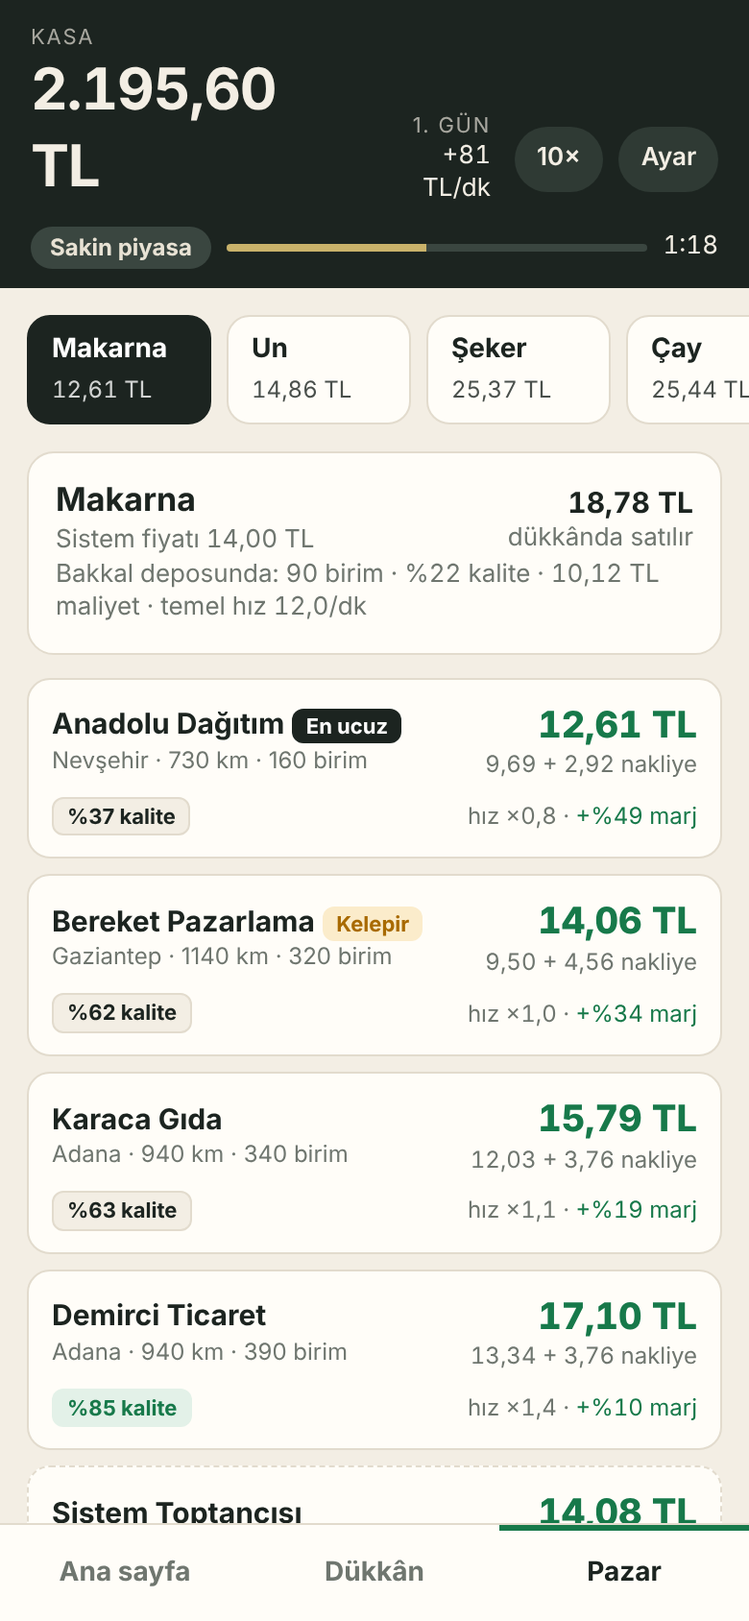
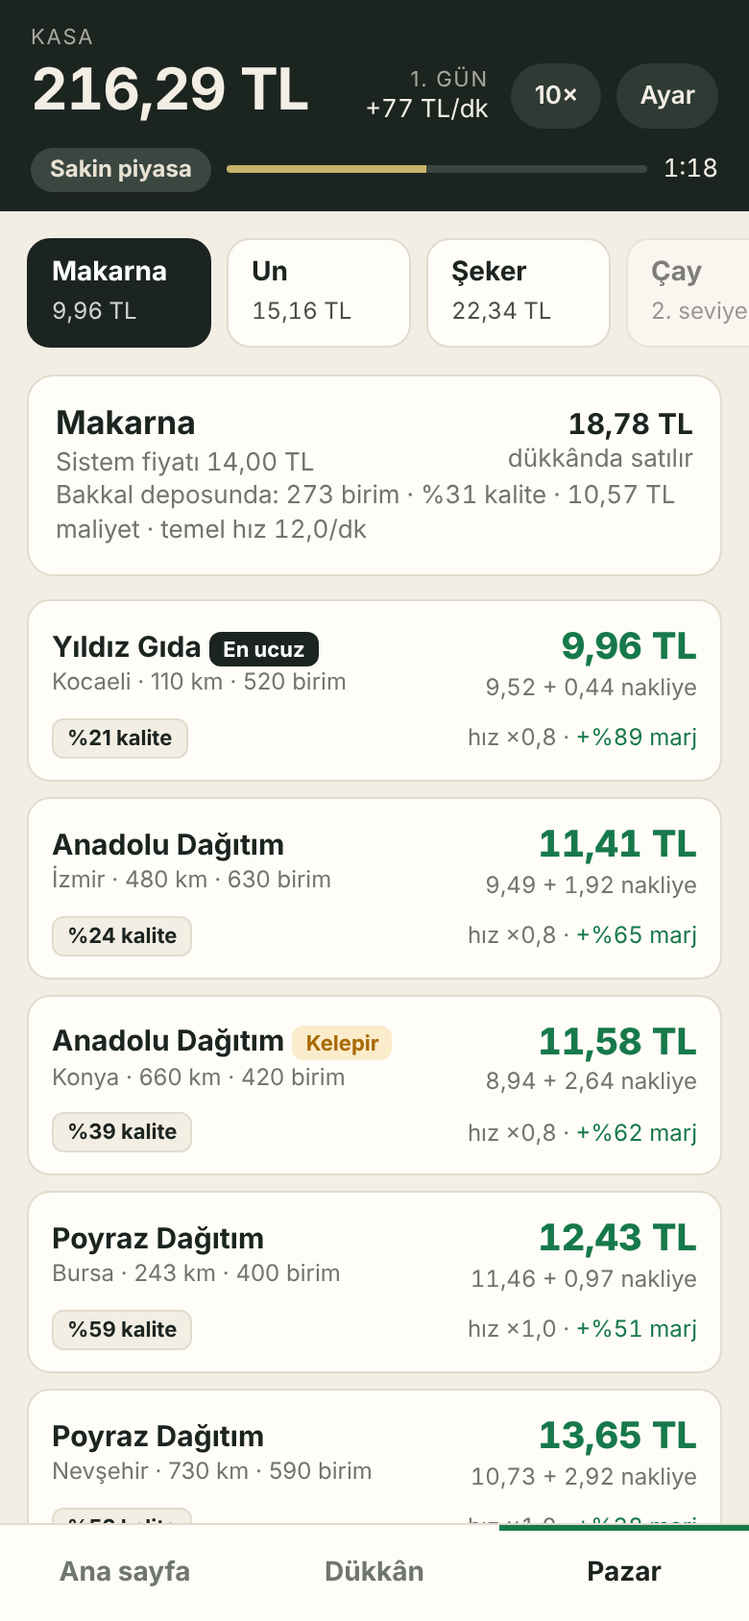
Banka, seviyeyle açılan ürünler, hızlanan tempo
Claude-Session: https://claude.ai/code/session_016ga1EdVkJkJaVmwRgvhwTG

diff --git a/prototypes/dukkan-pazar/index.html b/prototypes/dukkan-pazar/index.html
@@ -99,20 +99,20 @@ svg.sp{display:block;width:100%;height:38px}
 "use strict";
 /* ---- Ayar değerleri: dengenin tamamı burada ---- */
 const CONFIG={
-  startCash:3000, daySec:240, marketSec:150, rateScale:1, rentScale:1, shipPerKm:0.004, churnSec:12, xpBase:10000, xpPow:2,
+  startCash:3000, daySec:240, marketSec:150, rateScale:1, rentScale:1, shipPerKm:0.004, churnSec:12, xpBase:2500, xpPow:2.2, loanRatio:.6, interestDay:.04,
   states:{sakin:{ad:"Sakin piyasa",m:1},canli:{ad:"Canlı piyasa",m:1.12},kotu:{ad:"Kötü piyasa",m:0.88}},
   sizes:[{ad:"Küçük",shelves:2,depot:1200,rent:120,costK:0},{ad:"Orta",shelves:4,depot:3000,rent:300,costK:.8},{ad:"Büyük",shelves:6,depot:6000,rent:700,costK:3}],
   types:[
     {id:"bakkal",ad:"Bakkal",level:1,cost:3500,tier:1,products:[["makarna","Makarna",14],["un","Un",22],["seker","Şeker",36],["cay","Çay",42],["pirinc","Pirinç",48],["yag","Ayçiçek yağı",78]]},
-    {id:"manav",ad:"Manav",level:2,cost:6000,tier:1.1,products:[["sogan","Soğan",12],["patates","Patates",16],["domates","Domates",28],["elma","Elma",34],["limon","Limon",40],["muz","Muz",62]]},
-    {id:"kuruyemis",ad:"Kuruyemişçi",level:5,cost:25000,tier:2,products:[["leblebi","Leblebi",60],["cekirdek","Ay çekirdeği",70],["findik","Fındık",95],["kayisi","Kuru kayısı",180],["ceviz","Ceviz",240],["fistik","Antep fıstığı",320]]},
-    {id:"tekel",ad:"Tekel bayii",level:8,cost:60000,tier:3,products:[["soda","Soda",12],["cakmak","Çakmak",18],["bira","Bira",55],["sigara","Sigara",85],["sarap","Şarap",220],["raki","Rakı",650]]}],
+    {id:"manav",ad:"Manav",level:3,cost:6000,tier:1.1,products:[["sogan","Soğan",12],["patates","Patates",16],["domates","Domates",28],["elma","Elma",34],["limon","Limon",40],["muz","Muz",62]]},
+    {id:"kuruyemis",ad:"Kuruyemişçi",level:6,cost:18000,tier:2,products:[["leblebi","Leblebi",60],["cekirdek","Ay çekirdeği",70],["findik","Fındık",95],["kayisi","Kuru kayısı",180],["ceviz","Ceviz",240],["fistik","Antep fıstığı",320]]},
+    {id:"tekel",ad:"Tekel bayii",level:9,cost:40000,tier:3,products:[["soda","Soda",12],["cakmak","Çakmak",18],["bira","Bira",55],["sigara","Sigara",85],["sarap","Şarap",220],["raki","Rakı",650]]}],
   cities:[["İstanbul",20],["Kocaeli",110],["Bursa",243],["Eskişehir",325],["Ankara",453],["İzmir",480],["Konya",660],["Nevşehir",730],["Samsun",735],["Mersin",932],["Adana",940],["Trabzon",1070],["Gaziantep",1140]],
   sellers:["Yıldız Gıda","Akçay Toptan","Demirci Ticaret","Bereket Pazarlama","Öztürk Kardeşler","Anadolu Dağıtım","Karaca Gıda","Marmara Toptan","Güneş Ticaret","Sarıkaya Gıda","Poyraz Dağıtım","Toros Pazarlama"]
 };
 const clamp=(x,a,b)=>Math.max(a,Math.min(b,x));
 const P={},T={},PIDS=[];
-CONFIG.types.forEach(t=>{T[t.id]=t;t.products.forEach(a=>{P[a[0]]={id:a[0],ad:a[1],sys:a[2],type:t.id,rate:+(45/Math.sqrt(a[2])).toFixed(1),markup:clamp(.5-.06*Math.log(a[2]),.18,.42)};PIDS.push(a[0])})});
+CONFIG.types.forEach(t=>{T[t.id]=t;t.products.forEach((a,ix)=>{P[a[0]]={lvl:t.level+Math.max(0,ix-2),id:a[0],ad:a[1],sys:a[2],type:t.id,rate:+(45/Math.sqrt(a[2])).toFixed(1),markup:clamp(.5-.06*Math.log(a[2]),.18,.42)};PIDS.push(a[0])})});
 let seed=Date.now()%2147483647;
 function rnd(){seed=seed*48271%2147483647;return seed/2147483647}
 const rr=(a,b)=>a+rnd()*(b-a), ri=(a,b)=>Math.floor(rr(a,b+1)), pick=a=>a[Math.floor(rnd()*a.length)];
@@ -120,10 +120,10 @@ const tl=(x,d)=>x.toLocaleString("tr-TR",{minimumFractionDigits:d==null?2:d,maxi
 let S, lid=1;
 
 /* ---- Motor ---- */
-function mkShop(type){const sh={type,size:0,shelves:[],stock:{},acc:{}};T[type].products.forEach(a=>{sh.stock[a[0]]={q:0,qual:0,cost:0};sh.acc[a[0]]=0});fitShelves(sh);return sh}
+function mkShop(type){const sh={type,val:T[type].cost,size:0,shelves:[],stock:{},acc:{}};T[type].products.forEach(a=>{sh.stock[a[0]]={q:0,qual:0,cost:0};sh.acc[a[0]]=0});fitShelves(sh);return sh}
 function fitShelves(sh){while(sh.shelves.length<CONFIG.sizes[sh.size].shelves)sh.shelves.push(null)}
 function newGame(){
-  S={cash:CONFIG.startCash,t:0,day:1,xp:0,level:1,shops:[mkShop("bakkal")],cur:0,sel:{},feed:[],listings:{},
+  S={cash:CONFIG.startCash,debt:0,t:0,day:1,xp:0,level:1,shops:[mkShop("bakkal")],cur:0,sel:{},feed:[],listings:{},
      market:{state:"sakin",nextAt:CONFIG.marketSec,mult:{},hist:{}},churnAt:CONFIG.churnSec,d:{rev:0,buy:0,sold:0},dead:false,speed:1,tab:"home",first:true};
   CONFIG.types.forEach(t=>S.sel[t.id]=t.products[0][0]);
   PIDS.forEach(id=>{S.market.mult[id]=1;S.market.hist[id]=[P[id].sys];S.listings[id]=[];const n=ri(5,6);for(let i=0;i<n;i++)S.listings[id].push(genListing(id))});
@@ -134,7 +134,7 @@ function genListing(id){
   const q=ri(20,85), c=pick(CONFIG.cities);
   let d=.34-(q-20)/65*.26+rr(-.04,.04), kelepir=rnd()<.1;
   if(kelepir)d+=rr(.08,.14);
-  return{id:lid++,pid:id,seller:pick(CONFIG.sellers),city:c[0],km:c[1],q:q,qty:ri(6,40)*10,price:+(sysPrice(id)*(1-d)).toFixed(2),kelepir};
+  return{id:lid++,pid:id,seller:pick(CONFIG.sellers),city:c[0],km:c[1],q:q,qty:ri(10,80)*10,price:+(sysPrice(id)*(1-d)).toFixed(2),kelepir};
 }
 const ship=l=>+(l.km*CONFIG.shipPerKm).toFixed(2);
 const net=l=>+(l.price+ship(l)).toFixed(2);
@@ -151,7 +151,7 @@ const profitPerMin=()=>S.shops.reduce((s,sh)=>s+shopProfit(sh),0);
 const shopRent=sh=>Math.round(CONFIG.sizes[sh.size].rent*T[sh.type].tier*CONFIG.rentScale);
 const upCost=sh=>sh.size<2?Math.round(T[sh.type].cost*CONFIG.sizes[sh.size+1].costK):null;
 const xpNeed=n=>CONFIG.xpBase*Math.pow(n-1,CONFIG.xpPow);
-function maxBuy(l){const sh=shopOf(l.pid);if(!sh)return 0;return Math.max(0,Math.min(l.qty,Math.floor(S.cash/net(l)),depotCap(sh)-depotUsed(sh)))}
+function maxBuy(l){const sh=shopOf(l.pid);if(!sh||S.level<P[l.pid].lvl)return 0;return Math.max(0,Math.min(l.qty,Math.floor(S.cash/net(l)),depotCap(sh)-depotUsed(sh)))}
 const roundP=x=>Math.round(x*20)/20;
 function buy(l,qty){
   const sh=shopOf(l.pid);qty=Math.min(qty,maxBuy(l));if(!sh||qty<=0)return 0;
@@ -162,8 +162,12 @@ function buy(l,qty){
   if(!sh.shelves.some(s=>s&&s.pid===l.pid)){let i=sh.shelves.findIndex(s=>!s);if(i<0)i=sh.shelves.findIndex(s=>sh.stock[s.pid].q<=0);if(i>=0)sh.shelves[i]={pid:l.pid,price:roundP(refPrice(l.pid))}}
   S.first=false;return qty;
 }
-function upgrade(sh){const c=upCost(sh);if(c==null||S.cash<c)return false;S.cash-=c;sh.size++;fitShelves(sh);return true}
+function upgrade(sh){const c=upCost(sh);if(c==null||S.cash<c)return false;S.cash-=c;sh.val+=c;sh.size++;fitShelves(sh);return true}
 function openShop(type){const t=T[type];if(S.level<t.level||S.cash<t.cost||S.shops.some(s=>s.type===type))return false;S.cash-=t.cost;S.shops.push(mkShop(type));return true}
+const assets=()=>S.shops.reduce((s,sh)=>s+sh.val+Object.values(sh.stock).reduce((a,x)=>a+x.q*x.cost,0),0);
+const loanLimit=()=>Math.floor(assets()*CONFIG.loanRatio/100)*100;
+function borrow(x){x=Math.min(x,loanLimit()-S.debt);if(x<=0)return 0;S.debt+=x;S.cash+=x;return x}
+function repay(x){x=Math.min(x,S.debt,Math.max(0,S.cash));if(x<=0)return 0;S.debt-=x;S.cash-=x;return x}
 function marketUpdate(){
   const keys=Object.keys(CONFIG.states).filter(k=>k!==S.market.state||rnd()<.25);
   S.market.state=pick(keys);const m=CONFIG.states[S.market.state].m;
@@ -173,12 +177,12 @@ function marketUpdate(){
 }
 function churn(){
   PIDS.forEach(id=>{const L=S.listings[id];
-    if(L.length&&rnd()<.5){const l=L.slice().sort((a,b)=>net(a)-net(b))[0];l.qty-=ri(2,12)*10;if(l.qty<=0)S.listings[id]=L.filter(x=>x!==l)}
+    if(L.length&&rnd()<.5){const l=L.slice().sort((a,b)=>net(a)-net(b))[0];l.qty-=ri(4,24)*10;if(l.qty<=0)S.listings[id]=L.filter(x=>x!==l)}
     if(S.listings[id].length<7&&rnd()<.45)S.listings[id].push(genListing(id))});
   ev("listings");
 }
 function endDay(){
-  const rent=S.shops.reduce((s,sh)=>s+shopRent(sh),0);S.cash-=rent;
+  const rent=S.shops.reduce((s,sh)=>s+shopRent(sh),0)+S.debt*CONFIG.interestDay;S.cash-=rent;
   ev("day",{day:S.day,sold:S.d.sold,rent});S.day++;S.d={rev:0,buy:0,sold:0};
   if(S.cash<0&&S.shops.every(sh=>depotUsed(sh)===0)){S.dead=true;ev("dead")}
 }
@@ -198,14 +202,14 @@ let onEv=()=>{};function ev(k,d){onEv(k,d)}
 const $=id=>document.getElementById(id);
 let dirty=true,pend={},sheetL=null,sheetQ=0,toastT;
 const cur=()=>S.shops[S.cur];
-function toast(m){const t=$("toast");t.textContent=m;t.classList.add("on");clearTimeout(toastT);toastT=setTimeout(()=>t.classList.remove("on"),2600)}
+function toast(m){const t=$("toast"),up=$("sheetbg").classList.contains("on");t.style.top=up?"104px":"auto";t.style.bottom=up?"auto":"66px";t.textContent=m;t.classList.add("on");clearTimeout(toastT);toastT=setTimeout(()=>t.classList.remove("on"),2600)}
 onEv=(k,d)=>{
   if(k==="sale"){const p=pend[d.pid]||(pend[d.pid]={n:0,r:0,si:d.si});p.n+=d.n;p.r+=d.r}
   else if(k==="market"){const s=S.market.state;toast("Piyasa güncellendi: "+CONFIG.states[s].ad+(s==="canli"?". Fiyatlar yükseldi.":s==="kotu"?". Fiyatlar düştü.":"."));dirty=true}
   else if(k==="listings"){if(S.tab==="market"&&!sheetL)dirty=true}
   else if(k==="empty"){toast(P[d.pid].ad+" bitti. Raf boş.");dirty=true}
-  else if(k==="level"){const u=CONFIG.types.find(t=>t.level===S.level);toast(S.level+". seviye oldun."+(u?" "+u.ad+" açılabilir.":""));dirty=true}
-  else if(k==="day"){S.feed.unshift({t:d.day+". gün kapandı: "+d.sold+" satış, kira",v:-d.rent,si:-1});dirty=true}
+  else if(k==="level"){toast(S.level+". seviye oldun. "+reward(S.level));dirty=true}
+  else if(k==="day"){S.feed.unshift({t:d.day+". gün kapandı: "+d.sold+" satış, kira"+(S.debt>0?" ve faiz":""),v:-d.rent,si:-1});dirty=true}
   else if(k==="dead"){openEnd()}
 };
 function flushFeed(){let ch=false;for(const id in pend){const p=pend[id];S.feed.unshift({t:p.n+" × "+P[id].ad,v:p.r,nw:1,si:p.si});ch=true}pend={};if(S.feed.length>40)S.feed.length=40;
@@ -215,17 +219,20 @@ function qTag(q){return `<span class="tag q ${q>=70?"hi":""}">%${Math.round(q)} 
 function spark(id){const h=S.market.hist[id];if(h.length<2)return"";const mn=Math.min(...h),mx=Math.max(...h),w=300,H=38;
   const pts=h.map((v,i)=>(i/(h.length-1)*w).toFixed(1)+","+(H-4-(mx===mn?.5:(v-mn)/(mx-mn))*(H-8)).toFixed(1)).join(" ");
   return `<svg class="sp" viewBox="0 0 ${w} ${H}" preserveAspectRatio="none"><polyline points="${pts}" fill="none" stroke="#17794a" stroke-width="2" vector-effect="non-scaling-stroke"/></svg>`}
+function reward(n){const a=CONFIG.types.filter(t=>t.level===n).map(t=>t.ad+" açılabilir"),b=PIDS.filter(id=>P[id].lvl===n&&n>T[P[id].type].level).map(id=>T[P[id].type].ad+": "+P[id].ad);return a.concat(b.length?["yeni ürün: "+b.join(", ")]:[]).join(" · ")}
 const shopChips=()=>S.shops.length<2?"":`<div class="prods">`+S.shops.map((sh,i)=>`<button class="${i===S.cur?"on":""}" data-a="shopsel" data-v="${i}"><b>${T[sh.type].ad}</b><span>${CONFIG.sizes[sh.size].ad}</span></button>`).join("")+`</div>`;
 const costBtn=(a,c,extra,dis)=>`<button class="btn" data-a="${a}" ${extra||""} data-cost="${c}" ${S.cash<c||dis?"disabled":""}>${tl(c,0)} TL</button>`;
 function renderHome(){
-  const nx=xpNeed(S.level+1),pv=xpNeed(S.level),nu=CONFIG.types.filter(t=>t.level>S.level).sort((a,b)=>a.level-b.level)[0];
-  let h=`<div class="card lvl"><div class="row"><div><div class="lbl">Seviye</div><b class="big num">${S.level}</b></div><div style="text-align:right"><div class="sub num" id="xpT">Sonraki seviyeye ${tl(Math.max(0,nx-S.xp),0)} TL ciro</div>${nu?`<div class="sub">${nu.level}. seviyede: ${nu.ad}</div>`:""}</div></div><div class="depo"><i id="xpB" data-a0="${pv}" data-a1="${nx}" style="width:${clamp((S.xp-pv)/(nx-pv)*100,0,100)}%"></i></div></div>`;
+  const nx=xpNeed(S.level+1),pv=xpNeed(S.level),nu=reward(S.level+1);
+  let h=`<div class="card lvl"><div class="row"><div><div class="lbl">Seviye</div><b class="big num">${S.level}</b></div><div style="text-align:right"><div class="sub num" id="xpT">Sonraki seviyeye ${tl(Math.max(0,nx-S.xp),0)} TL ciro</div>${nu?`<div class="sub">${S.level+1}. seviyede: ${nu}</div>`:""}</div></div><div class="depo"><i id="xpB" data-a0="${pv}" data-a1="${nx}" style="width:${clamp((S.xp-pv)/(nx-pv)*100,0,100)}%"></i></div></div>`;
   if(S.first)h+=`<div class="card hint"><b>Rafların boş.</b><div class="sub" style="color:inherit;margin:4px 0 12px">Pazardan mal al. Aldığın mal anında depoya girer ve satılmaya başlar.</div><button class="btn full" data-a="tab" data-v="market">Pazara git</button></div>`;
   else{let al="";S.shops.forEach((sh,i)=>{sh.shelves.forEach(sf=>{if(sf&&sh.stock[sf.pid].q<=0)al+=`<div class="al"><span><b>${T[sh.type].ad}:</b> ${P[sf.pid].ad} bitti</span><button class="btn sm g" data-a="goto" data-v="${sf.pid}">Mal al</button></div>`});
       const e=sh.shelves.filter(x=>!x).length;if(e)al+=`<div class="al"><span><b>${T[sh.type].ad}:</b> ${e} raf boş</span><button class="btn sm ghost" data-a="gomarket" data-v="${i}">Pazar</button></div>`});
+    if(S.debt>loanLimit())al+=`<div class="al"><span><b>Banka:</b> borcun kredi limitinin üstünde</span><button class="btn sm ghost" data-a="bank">Banka</button></div>`;
     if(al)h+=`<div class="card"><h2 style="margin-bottom:4px">Bekleyen işler</h2>${al}</div>`}
   h+=`<h3>Dükkânlarım</h3>`;
   S.shops.forEach((sh,i)=>{const u=depotUsed(sh),pr=shopProfit(sh);h+=`<button class="lst" data-a="shopgo" data-v="${i}"><div class="row"><div><b>${T[sh.type].ad}</b><div class="sm">${CONFIG.sizes[sh.size].ad} · İstanbul · ${sh.shelves.filter(x=>x).length}/${sh.shelves.length} raf dolu</div></div><div style="text-align:right"><b class="num ${pr>=0?"up":"dn"}">${pr>=0?"+":"−"}${tl(Math.abs(pr),0)} TL/dk</b><div class="sm num">kira ${tl(shopRent(sh),0)} TL/gün</div></div></div><div class="depo"><i style="width:${u/depotCap(sh)*100}%"></i></div></button>`});
+  const lim=loanLimit();h+=`<h3>Banka</h3><button class="lst" data-a="bank"><div class="row"><div><b>${S.debt>0?"Borç "+tl(S.debt,0)+" TL":"Borcun yok"}</b><div class="sm num">Kredi limiti ${tl(lim,0)} TL · faiz günde %${tl(CONFIG.interestDay*100,1)}</div></div><div style="text-align:right"><b class="num ${S.debt>0?"dn":""}">${S.debt>0?"−"+tl(S.debt*CONFIG.interestDay,0)+" TL/gün":tl(Math.max(0,lim-S.debt),0)+" TL"}</b><div class="sm">${S.debt>0?"faiz":"çekilebilir"}</div></div></div></button>`;
   const rest=CONFIG.types.filter(t=>!S.shops.some(s=>s.type===t.id));
   if(rest.length){h+=`<h3>Yeni dükkân</h3>`;rest.forEach(t=>{const lk=S.level<t.level;h+=`<div class="card ${lk?"lock":""}"><div class="row"><div><h2>${t.ad}</h2><div class="sub">${t.products.slice(0,3).map(a=>a[1]).join(", ")} ve ${t.products.length-3} ürün daha</div></div>${lk?`<span class="tag q">${t.level}. seviyede açılır</span>`:costBtn("openshop",t.cost,`data-v="${t.id}"`)}</div></div>`})}
   return h}
@@ -244,7 +251,7 @@ function renderShop(){
   return h}
 function renderMarket(){
   const sh=cur(),t=T[sh.type],id=S.sel[t.id],p=P[id],h0=S.market.hist[id],prev=h0.length>1?h0[h0.length-2]:h0[0],c0=sysPrice(id),ch=(c0/prev-1)*100,st=sh.stock[id];
-  let h=shopChips()+`<div class="prods">`+t.products.map(a=>{const b=allListings(a[0])[0];return `<button class="${a[0]===id?"on":""}" data-a="sel" data-v="${a[0]}"><b>${a[1]}</b><span class="num">${tl(net(b))} TL</span></button>`}).join("")+`</div>`;
+  let h=shopChips()+`<div class="prods">`+t.products.map(a=>{if(S.level<P[a[0]].lvl)return `<button class="lock" data-a="sel" data-v="${a[0]}"><b>${a[1]}</b><span>${P[a[0]].lvl}. seviye</span></button>`;const b=allListings(a[0])[0];return `<button class="${a[0]===id?"on":""}" data-a="sel" data-v="${a[0]}"><b>${a[1]}</b><span class="num">${tl(net(b))} TL</span></button>`}).join("")+`</div>`;
   h+=`<div class="card"><div class="row"><div><h2>${p.ad}</h2><div class="sub num">Sistem fiyatı ${tl(c0)} TL <span class="${ch>0.5?"up":ch<-0.5?"dn":""}">${Math.abs(ch)<.5?"":(ch>0?"▲":"▼")+" %"+tl(Math.abs(ch),0)}</span></div></div><div style="text-align:right"><b class="num">${tl(refPrice(id))} TL</b><div class="sub">dükkânda satılır</div></div></div>${spark(id)}<div class="sub num">${t.ad} deposunda: ${st.q} birim${st.q?` · %${Math.round(st.qual)} kalite · ${tl(st.cost)} TL maliyet`:""} · temel hız ${tl(p.rate,1)}/dk</div></div>`;
   allListings(id).forEach((l,i)=>{const mrg=(refPrice(id)/net(l)-1)*100;
     h+=`<button class="lst ${l.sys?"sys":""}" data-a="open" data-v="${l.id}"><div class="row"><div><b>${l.seller}</b> ${i===0&&!l.sys?`<span class="tag best">En ucuz</span>`:""} ${l.kelepir?`<span class="tag k">Kelepir</span>`:""}<div class="sm">${l.city} · ${l.km} km · ${l.sys?"sınırsız":l.qty+" birim"}</div></div><div style="text-align:right"><div class="net num">${tl(net(l))} TL</div><div class="sm num">${tl(l.price)} + ${tl(ship(l))} nakliye</div></div></div><div class="row" style="margin-top:8px">${qTag(l.q)}<span class="sm num">hız ×${tl(qualMult(l.q),1)} · <span class="${mrg>0?"up":"dn"}">${mrg>=0?"+":"−"}%${tl(Math.abs(mrg),0)} marj</span></span></div></button>`});
@@ -279,12 +286,20 @@ function buySheet(){
   ${mx>0?`<div class="row"><b>Miktar</b><b class="num" style="font-size:20px" id="sq"></b></div><input type="range" id="qr" min="1" max="${mx}" value="${sheetQ}">
   <div class="qk"><button data-a="qk" data-v=".25">%25</button><button data-a="qk" data-v=".5">%50</button><button data-a="qk" data-v="1">En fazla (${mx})</button></div>
   <table class="tbl num"><tr><td>Toplam</td><td id="stot"></td></tr><tr><td>Depoda yeni ortalama</td><td id="savg"></td></tr><tr><td>Piyasa fiyatından satarsan</td><td id="sprof"></td></tr></table>
-  <button class="btn g full" data-a="buy" id="sbuy"></button>`:`<div class="card hint">${why}</div><button class="btn ghost full" data-a="close">Kapat</button>`}`);
+  <button class="btn g full" data-a="buy" id="sbuy"></button>`:`<div class="card hint">${why}</div><button class="btn ghost full" data-a="close">Kapat</button>`}
+  ${S.cash<net(l)*Math.min(l.qty,depotCap(sh)-depotUsed(sh))&&loanLimit()-S.debt>=100?`<button class="btn ghost full" style="margin-top:8px" data-a="bank">Kasan yetmiyor: bankadan kredi çek (${tl(loanLimit()-S.debt,0)} TL)</button>`:""}`);
   const r=$("qr");if(r){r.oninput=()=>{sheetQ=+r.value;buyCalc()};buyCalc()}}
 function swapSheet(i){const sh=cur(),have=T[sh.type].products.map(a=>P[a[0]]).filter(p=>sh.stock[p.id].q>0&&!sh.shelves.some(s=>s&&s.pid===p.id));
   openSheet(`<h2 style="margin-bottom:10px">${i+1}. rafta ne satılsın?</h2>`+(have.length?have.map(p=>`<button class="lst" data-a="setp" data-i="${i}" data-v="${p.id}"><div class="row"><b>${p.ad}</b><span class="sm num">${sh.stock[p.id].q} birim · %${Math.round(sh.stock[p.id].qual)}</span></div></button>`).join(""):`<div class="sub" style="margin-bottom:12px">Depoda rafta olmayan başka ürün yok. Önce pazardan al.</div>`)+`<button class="btn ghost full" data-a="close">Kapat</button>`)}
+function bankSheet(){sheetL=null;const lim=loanLimit(),av=Math.floor(Math.max(0,lim-S.debt)/100)*100,rp=Math.floor(Math.min(S.debt,Math.max(0,S.cash))),f=x=>tl(x,0)+" TL";
+  openSheet(`<h2>Banka</h2><div class="sub">Kredi limitin, dükkânlarının ve depodaki malın değerinin %${Math.round(CONFIG.loanRatio*100)} kadarıdır. Faiz her gün sonunda kasadan kesilir.</div>
+  <table class="tbl num"><tr><td>Borç</td><td>${f(S.debt)}</td></tr><tr><td>Kredi limiti</td><td>${f(lim)}</td></tr><tr><td>Günlük faiz (%${tl(CONFIG.interestDay*100,1)})</td><td>${f(S.debt*CONFIG.interestDay)}</td></tr></table>
+  ${av>=100?`<div class="row"><b>Kredi çek</b><b class="num" id="bv"></b></div><input type="range" id="bq" min="100" max="${av}" step="100" value="${Math.max(100,Math.floor(av/200)*100)}"><button class="btn g full" data-a="borrow">Kredi çek</button>`:`<div class="card hint">Çekilebilir kredin yok.</div>`}
+  ${rp>=1?`<div class="row" style="margin-top:16px"><b>Borç öde</b><b class="num" id="pv"></b></div><input type="range" id="pq" min="1" max="${rp}" value="${rp}"><button class="btn full" data-a="repay">Borç öde</button>`:""}
+  <button class="btn ghost full" style="margin-top:10px" data-a="close">Kapat</button>`);
+  const b=$("bq"),q=$("pq");if(b){const u=()=>$("bv").textContent=f(+b.value)+" · faizi "+f((S.debt+ +b.value)*CONFIG.interestDay)+"/gün";b.oninput=u;u()}if(q){const u=()=>$("pv").textContent=f(+q.value);q.oninput=u;u()}}
 function settingsSheet(){const r=(k,a,b,s,lab)=>`<div class="row" style="margin-top:10px"><span>${lab}</span><b class="num" id="v-${k}">${CONFIG[k]}</b></div><input type="range" id="r-${k}" data-k="${k}" min="${a}" max="${b}" step="${s}" value="${CONFIG[k]}">`;
-  openSheet(`<h2>Ayar paneli</h2><div class="sub">Denge değerleri. Değişiklik anında uygulanır.</div>${r("marketSec",30,1200,30,"Piyasa güncelleme aralığı (sn)")}${r("rateScale",.5,3,.1,"Satış hızı çarpanı")}${r("rentScale",0,3,.1,"Kira çarpanı")}${r("daySec",60,600,30,"Bir günün süresi (sn)")}${r("shipPerKm",0,.02,.001,"Nakliye (TL/km)")}
+  openSheet(`<h2>Ayar paneli</h2><div class="sub">Denge değerleri. Değişiklik anında uygulanır.</div>${r("marketSec",30,1200,30,"Piyasa güncelleme aralığı (sn)")}${r("rateScale",.5,3,.1,"Satış hızı çarpanı")}${r("rentScale",0,3,.1,"Kira çarpanı")}${r("daySec",60,600,30,"Bir günün süresi (sn)")}${r("shipPerKm",0,.02,.001,"Nakliye (TL/km)")}${r("loanRatio",0,1,.05,"Kredi limiti oranı")}${r("interestDay",0,.1,.005,"Günlük faiz oranı")}
   <div class="row" style="margin-top:14px"><button class="btn ghost" style="flex:1" data-a="reset">Oyunu sıfırla</button><button class="btn" style="flex:1" data-a="close">Tamam</button></div>`);
   $("sheet").querySelectorAll("input").forEach(i=>i.oninput=()=>{CONFIG[i.dataset.k]=+i.value;$("v-"+i.dataset.k).textContent=i.value})}
 function openEnd(){S.speed=1;openSheet(`<h2>İflas ettin.</h2><p>Kasa ekside ve depolarda satacak mal kalmadı (${S.day-1}. gün).</p><button class="btn full" data-a="reset">Yeniden başla</button>`)}
@@ -296,7 +311,10 @@ document.addEventListener("click",e=>{
   else if(a==="shopsel")S.cur=+v;
   else if(a==="shopgo"){S.cur=+v;S.tab="shop";top()}
   else if(a==="gomarket"){S.cur=+v;S.tab="market";top()}
-  else if(a==="sel")S.sel[cur().type]=v;
+  else if(a==="sel"){if(S.level<P[v].lvl){toast(P[v].ad+" "+P[v].lvl+". seviyede açılır.");return}S.sel[cur().type]=v}
+  else if(a==="bank"){bankSheet();return}
+  else if(a==="borrow"){const x=borrow(+$("bq").value);if(x)toast(tl(x,0)+" TL kredi çekildi.");bankSheet();tickUI();return}
+  else if(a==="repay"){const x=repay(+$("pq").value);if(x)toast(tl(x,0)+" TL borç ödendi.");bankSheet();tickUI();return}
   else if(a==="goto"){S.cur=S.shops.indexOf(shopOf(v));S.sel[P[v].type]=v;S.tab="market";top()}
   else if(a==="speed")S.speed=S.speed===1?3:S.speed===3?10:1;
   else if(a==="price"){const sf=cur().shelves[i],ref=refPrice(sf.pid),stp=Math.max(.05,roundP(ref*.02));sf.price=clamp(roundP(sf.price+stp*v),roundP(ref*.7),roundP(ref*1.3))}
@@ -313,13 +331,13 @@ document.addEventListener("click",e=>{
   else if(a==="close"){closeSheet()}
   dirty=true;render()});
 /* ---- Kayıt ve döngü ---- */
-function save(){try{localStorage.setItem("kervan-dp2",JSON.stringify({S,lid}))}catch(e){}}
-function load(){try{const j=JSON.parse(localStorage.getItem("kervan-dp2"));if(j&&j.S&&j.S.shops&&!j.S.dead&&PIDS.every(id=>j.S.listings[id])){S=j.S;lid=j.lid;return true}}catch(e){}return false}
+function save(){try{localStorage.setItem("kervan-dp3",JSON.stringify({S,lid}))}catch(e){}}
+function load(){try{const j=JSON.parse(localStorage.getItem("kervan-dp3"));if(j&&j.S&&j.S.shops&&!j.S.dead&&PIDS.every(id=>j.S.listings[id])){S=j.S;lid=j.lid;return true}}catch(e){}return false}
 if(!load())newGame();
 render();
 let fc=0;
 if(!/[?&]sim/.test(location.search))setInterval(()=>{step(.25*S.speed);if(++fc%4===0)flushFeed();if(fc%40===0)save();if(dirty&&!$("sheetbg").classList.contains("on"))render();else tickUI()},250);
-window.__k={get S(){return S},CONFIG,P,T,step,buy,allListings,net,refPrice,newGame,depotUsed,depotCap,qualMult,upgrade,openShop,upCost,shopOf,seed:v=>{seed=v}};
+window.__k={get S(){return S},CONFIG,P,T,step,buy,allListings,net,refPrice,newGame,depotUsed,depotCap,qualMult,upgrade,openShop,upCost,shopOf,loanLimit,borrow,repay,seed:v=>{seed=v}};
 </script>
 </body>
 </html>

diff --git a/tools/sim.py b/tools/sim.py
@@ -7,20 +7,21 @@ const m=()=>+(S.t/60).toFixed(0);
 for(let i=0;i<60*60*5;i++){k.step(1);if(S.dead){res.dead=m();break}
   if(S.level>lv){lv=S.level;res.lv[lv]=m()}
   if(i%5)continue;
+  if(mode=='kredi'){const av=k.loanLimit()-S.debt;if(av>=500)k.borrow(Math.floor(av/100)*100)}res.debt=Math.round(S.debt);
   const stockVal=S.shops.reduce((s,sh)=>s+Object.values(sh.stock).reduce((a,x)=>a+x.q*x.cost,0),0);
   for(const t of C.types){if(!S.shops.some(s=>s.type==t.id)&&S.level>=t.level&&S.cash>=t.cost+1500){if(k.openShop(t.id))res.ev.push(t.id+"@"+m())}}
   for(const sh of S.shops){const c=k.upCost(sh);if(c!=null&&S.cash>=c+1500&&sh.shelves.every(x=>x)){if(k.upgrade(sh))res.ev.push(sh.type+"^"+sh.size+"@"+m())}}
-  for(const sh of S.shops){const prods=k.T[sh.type].products.map(a=>a[0]);
+  for(const sh of S.shops){const prods=k.T[sh.type].products.map(a=>a[0]).filter(p=>S.level>=k.P[p].lvl);
     const best=pid=>{const L=k.allListings(pid);if(mode=='sys')return L[L.length-1];let b=null,bv=-1;for(const l of L){const v=(k.refPrice(pid)-k.net(l))*k.qualMult(l.q);if(v>bv){bv=v;b=l}}return b};
     const ranked=prods.map(pid=>({pid,l:best(pid)})).map(o=>({...o,v:(k.refPrice(o.pid)-k.net(o.l))*k.P[o.pid].rate})).sort((a,b)=>b.v-a.v);
     const onShelf=sh.shelves.filter(x=>x).map(x=>x.pid);const want=onShelf.concat(ranked.map(o=>o.pid).filter(p=>!onShelf.includes(p))).slice(0,sh.shelves.length);
-    for(const pid of want){const st=sh.stock[pid];if(st.q<30){const l=best(pid);if(k.net(l)<k.refPrice(pid)*0.97){const budget=Math.floor(S.cash/want.length/k.net(l));k.buy(l,Math.min(budget,400))}}
+    for(const pid of want){const st=sh.stock[pid];if(st.q<30){const l=best(pid);if(k.net(l)<k.refPrice(pid)*0.97){const budget=Math.floor(S.cash/want.length/k.net(l));k.buy(l,Math.min(budget,mode=='kredi'?1500:400))}}
       const sf=sh.shelves.find(s=>s&&s.pid==pid);if(sf)sf.price=Math.round(k.refPrice(pid)*20)/20}}
 }
 res.end={t:m(),cash:Math.round(S.cash),day:S.day,level:S.level,shops:S.shops.map(s=>s.type[0]+s.size).join(" ")};return res}'''
 with sync_playwright() as p:
     b=p.chromium.launch(executable_path='/usr/bin/google-chrome',args=['--no-sandbox']);pg=b.new_page();pg.goto(url)
-    for mode in ['ucuz','sys']:
+    for mode in ['ucuz','kredi']:
         for sd in [11,222,3333]:
             print(mode,sd,json.dumps(pg.evaluate(JS,[sd,mode]),ensure_ascii=False))
     b.close()

diff --git a/tools/play.py b/tools/play.py
@@ -13,7 +13,7 @@ with sync_playwright() as p:
     pg.click('#spd'); pg.click('#spd'); pg.wait_for_timeout(6000)
     pg.click('[data-a=price][data-v="1"]'); pg.wait_for_timeout(300); pg.screenshot(path=out+'/4-dukkan.png')
     pg.click('[data-a=settings]'); pg.wait_for_timeout(200); pg.screenshot(path=out+'/5-ayar.png'); pg.click('[data-a=close]')
-    pg.click('#t-market'); pg.wait_for_timeout(200); pg.screenshot(path=out+'/6-pazar2.png'); pg.evaluate('()=>{const S=__k.S;S.cash=40000;S.xp=20000}'); pg.wait_for_timeout(600); pg.click('#t-home'); pg.wait_for_timeout(300); pg.click('[data-a=openshop]'); pg.wait_for_timeout(300); pg.click('.lst >> nth=0'); pg.click('#sbuy'); pg.wait_for_timeout(300); pg.click('[data-a=upgrade]'); pg.wait_for_timeout(300); pg.screenshot(path=out+'/7-manav.png'); pg.click('#t-home'); pg.wait_for_timeout(1500); pg.screenshot(path=out+'/8-ana.png',full_page=False)
+    pg.click('#t-market'); pg.wait_for_timeout(200); pg.screenshot(path=out+'/6-pazar2.png'); pg.evaluate('()=>{const S=__k.S;S.cash=40000;S.xp=20000;S.speed=1}'); pg.wait_for_timeout(600); pg.click('#t-home'); pg.wait_for_timeout(300); pg.click('[data-a=openshop]'); pg.wait_for_timeout(300); pg.click('.lst >> nth=0'); pg.click('#sbuy'); pg.wait_for_timeout(300); pg.click('[data-a=upgrade]'); pg.wait_for_timeout(300); pg.screenshot(path=out+'/7-manav.png'); pg.click('#t-home'); pg.wait_for_timeout(400); pg.click('[data-a=bank]'); pg.wait_for_timeout(200); pg.screenshot(path=out+'/9-banka.png'); pg.click('[data-a=borrow]'); pg.wait_for_timeout(200); pg.click('#sheet [data-a=close]'); pg.wait_for_timeout(1200); pg.screenshot(path=out+'/8-ana.png',full_page=False)
     info=pg.evaluate('''()=>{const S=__k.S;const over=[...document.querySelectorAll("#app *")].filter(e=>{const r=e.getBoundingClientRect();return r.width&&(r.right>391||r.left<-1)&&!e.closest(".prods")}).length;
       const small=[...document.querySelectorAll("#app *")].filter(e=>e.children.length==0&&e.textContent.trim()&&parseFloat(getComputedStyle(e).fontSize)<11).length;
       return {cash:S.cash,day:S.day,level:S.level,shops:S.shops.map(s=>s.type+s.size+':'+s.shelves.length),over,small,sw:document.documentElement.scrollWidth}}''')

diff --git a/tools/dbg.py b/tools/dbg.py
@@ -1,0 +1,17 @@
+import sys,json
+from playwright.sync_api import sync_playwright
+url='file://'+sys.argv[1]
+with sync_playwright() as p:
+    b=p.chromium.launch(executable_path='/usr/bin/google-chrome',args=['--no-sandbox'])
+    for trial in range(6):
+        pg=b.new_page(viewport={'width':390,'height':844},has_touch=True,is_mobile=True);errs=[]
+        pg.on('pageerror',lambda e: errs.append(str(e)))
+        pg.goto(url);pg.evaluate('()=>{try{localStorage.clear()}catch(e){}}');pg.reload();pg.wait_for_timeout(300)
+        pg.evaluate('()=>{const S=__k.S;S.cash=40000;S.xp=20000}');pg.wait_for_timeout(700)
+        pg.click('[data-a=openshop]');pg.wait_for_timeout(300);pg.click('.lst >> nth=0');pg.wait_for_timeout(200)
+        has=pg.evaluate('()=>!!document.getElementById("sbuy")')
+        if has: pg.click('#sbuy')
+        pg.wait_for_timeout(300)
+        print(trial,has,pg.evaluate('()=>({tab:__k.S.tab,cur:__k.S.cur,up:!!document.querySelector("[data-a=upgrade]"),sheet:document.getElementById("sheetbg").className,main:document.getElementById("main").innerText.slice(0,60)})'),errs)
+        pg.close()
+    b.close()
